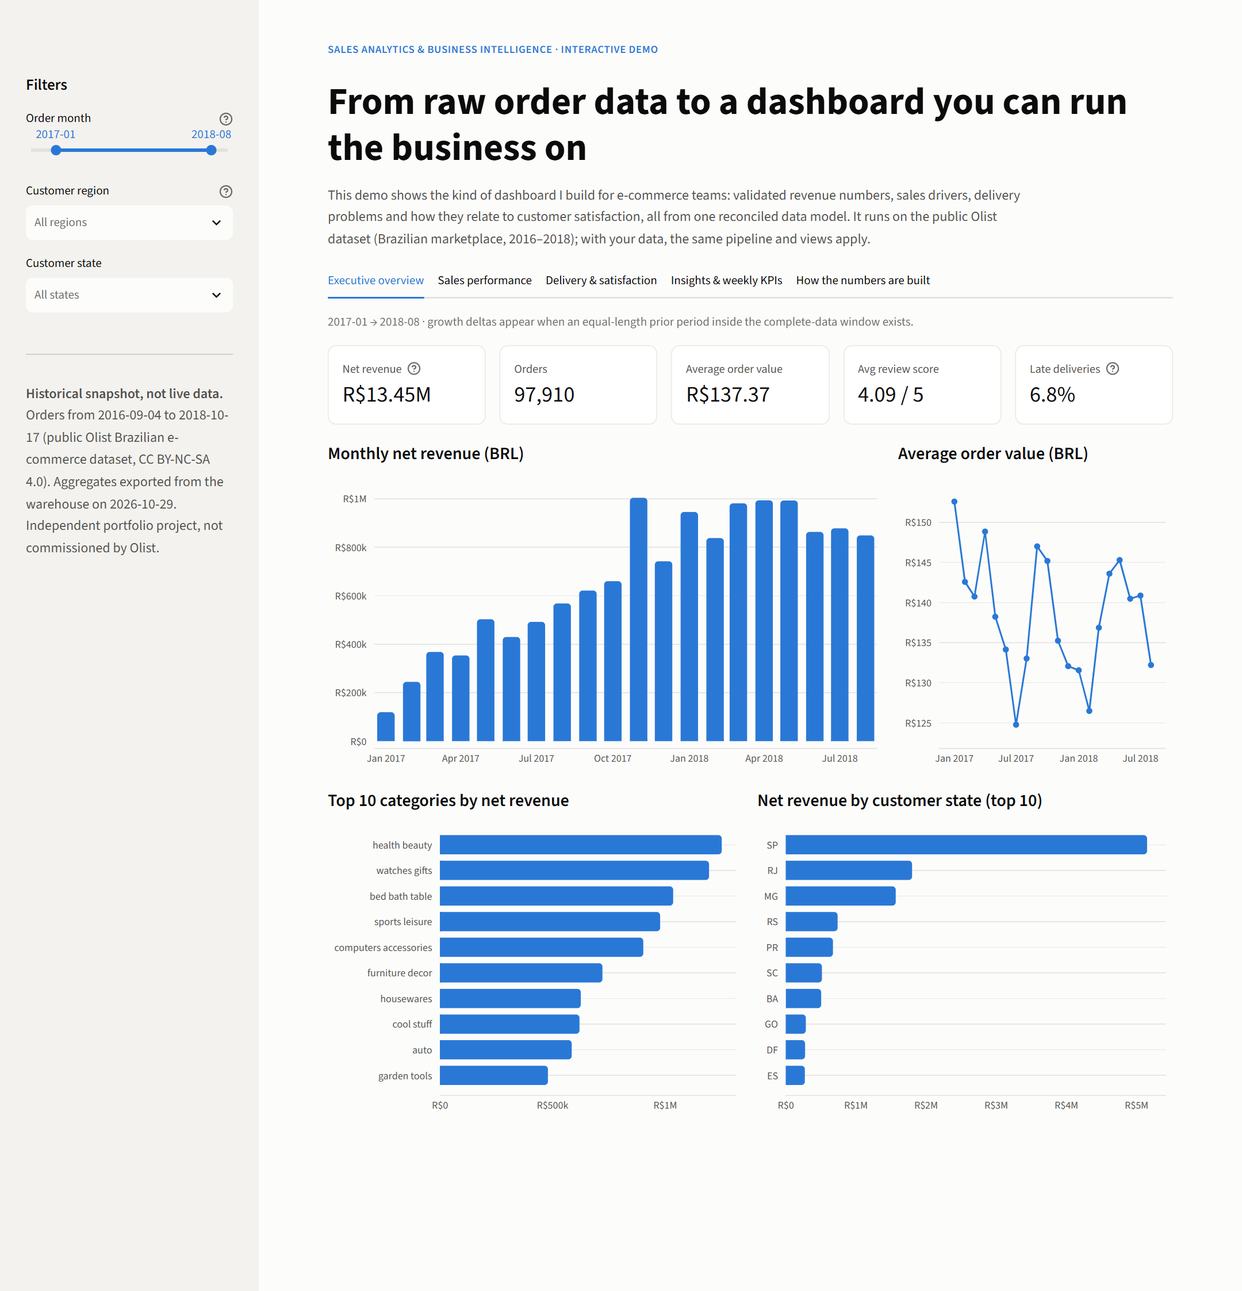
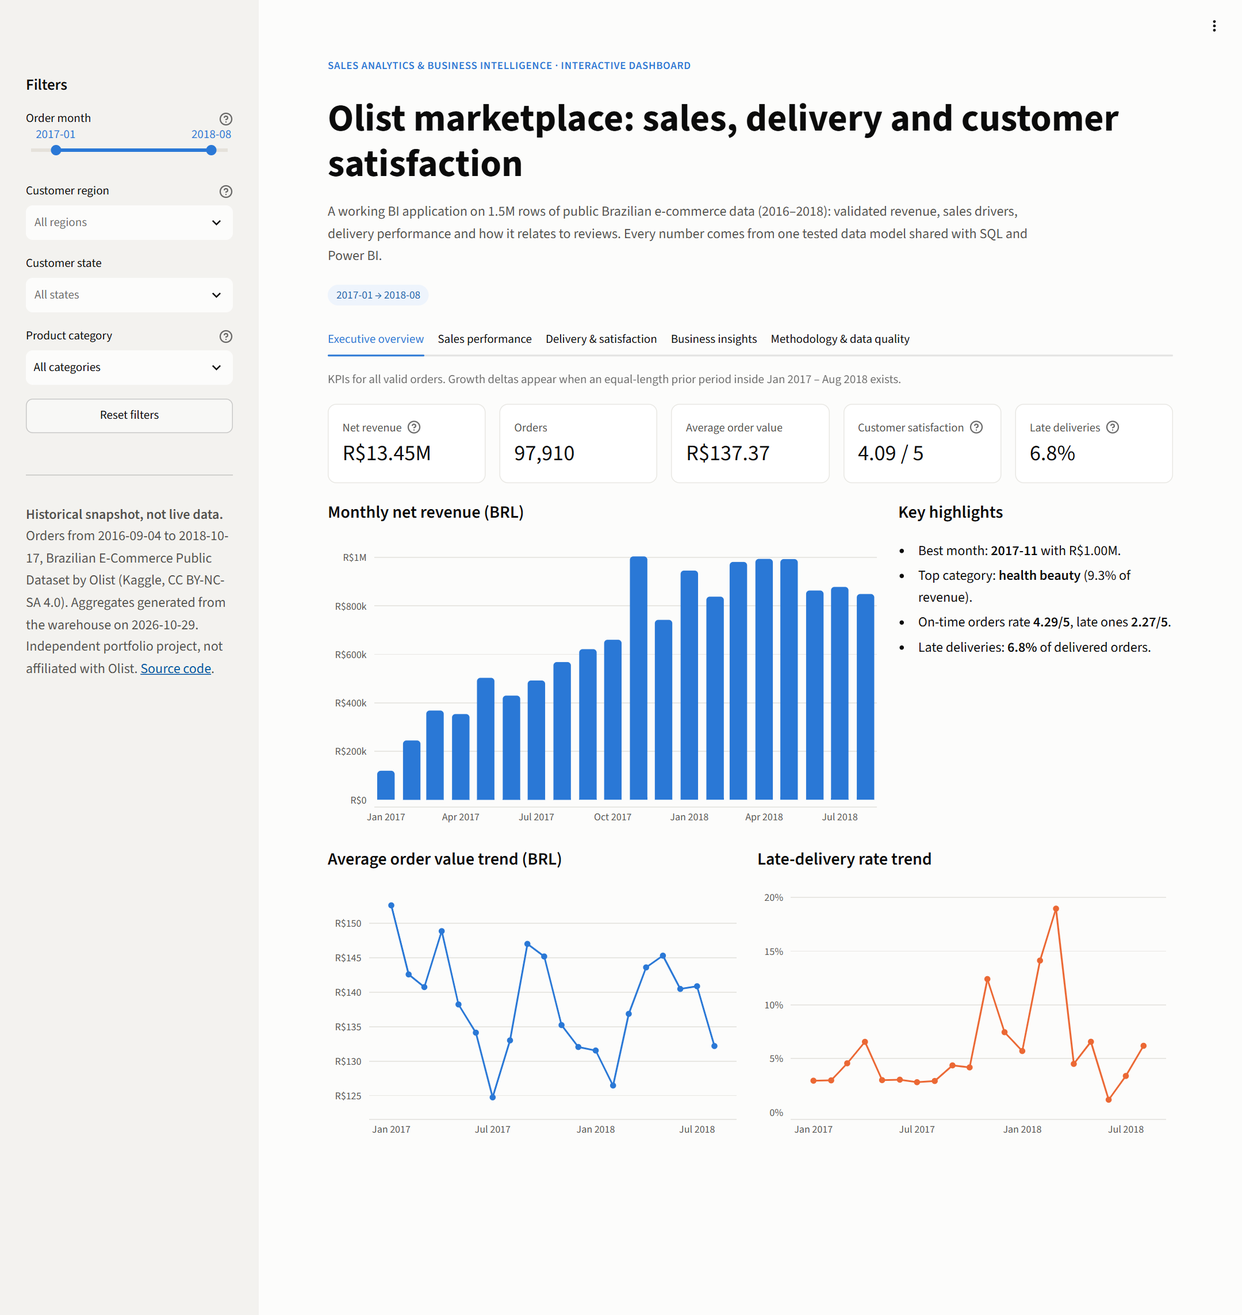
docs: live app URL, production architecture and operations guide
- README opens with the public URL and describes the five app sections
- docs/DEPLOYMENT.md: hosting decision, provider limits, update procedure,
  monitoring, troubleshooting, security and license
- screenshots regenerated from the new app; live URL in case study,
  career and Upwork materials

diff --git a/scripts/capture_demo_screenshots.py b/scripts/capture_demo_screenshots.py
@@ -11,14 +11,14 @@ from pathlib import Path
 
 from playwright.sync_api import sync_playwright
 
-URL = sys.argv[1] if len(sys.argv) > 1 else "http://localhost:8501"
+URL = sys.argv[1] if len(sys.argv) > 1 else "http://localhost:8501"  # public app: https://<app>.streamlit.app/~/+/
 OUT_DIR = Path(__file__).resolve().parent.parent / "images" / "demo"
 TABS = {
     "Executive overview": "01_executive_overview.png",
     "Sales performance": "02_sales_performance.png",
     "Delivery & satisfaction": "03_delivery_satisfaction.png",
-    "Insights & weekly KPIs": "04_insights_weekly_kpis.png",
-    "How the numbers are built": "05_methodology.png",
+    "Business insights": "04_business_insights.png",
+    "Methodology & data quality": "05_methodology_data_quality.png",
 }
 
 
@@ -28,7 +28,7 @@ def main() -> None:
         browser = p.chromium.launch(channel="msedge")
         page = browser.new_page(viewport={"width": 1440, "height": 900}, device_scale_factor=1.5)
         page.goto(URL)
-        page.get_by_text("From raw order data").wait_for(timeout=60_000)
+        page.get_by_text("Olist marketplace").first.wait_for(timeout=180_000)
         page.wait_for_timeout(3000)
         for tab, filename in TABS.items():
             page.get_by_role("tab", name=tab).click()

diff --git a/README.md b/README.md
@@ -1,18 +1,32 @@
 # Olist E-Commerce Analytics & BI
 
-**From 1.5 million raw marketplace rows to reconciled KPIs, a Power BI executive dashboard and an interactive web demo — with every number tested.**
+### ▶ Live app: **[olist-sales-analytics.streamlit.app](https://olist-sales-analytics.streamlit.app)** — opens in any browser, nothing to install
+
+**From 1.5 million raw marketplace rows to reconciled KPIs, a public BI web app and a Power BI executive dashboard — with every number tested.**
 
 *Independent portfolio project on the public [Olist Brazilian e-commerce dataset](https://www.kaggle.com/datasets/olistbr/brazilian-ecommerce) (99,441 orders, 2016–2018). Not commissioned by, affiliated with, or used by Olist; no figure below is a business result I delivered to a client.*
 
-**Demo:** `streamlit run demo/app.py` (no database needed) · public deployment steps in [docs/DEPLOYMENT.md](docs/DEPLOYMENT.md)
-
-![Web demo — executive overview](images/demo/01_executive_overview.png)
+[![Live app — executive overview](images/demo/01_executive_overview.png)](https://olist-sales-analytics.streamlit.app)
 
 | Net revenue analysed | Valid orders | Avg order value | Late deliveries | Review: on-time vs late | Data checks | Tests |
 |---:|---:|---:|---:|---:|---:|---:|
-| R$ 13.49M | 98,207 | R$ 137.41 | 6.77% | 4.29 vs 2.27 | 44 (0 failing) | 57 passing |
+| R$ 13.49M | 98,207 | R$ 137.41 | 6.77% | 4.29 vs 2.27 | 44 (0 failing) | 64 passing + 4 E2E on the live URL |
 
-KPIs are identical in PostgreSQL, Power BI and the web demo — see the [reconciliation matrix](docs/KPI_RECONCILIATION.md).
+KPIs are identical in PostgreSQL, Power BI and the web app — see the [reconciliation matrix](docs/KPI_RECONCILIATION.md).
+
+## The app
+
+A five-section BI application on the historical Olist data (orders Sep 2016 – Oct 2018; snapshot date shown in the app):
+
+| Section | What it answers |
+|---|---|
+| **Executive overview** | Net revenue, orders, AOV, customer satisfaction, late-delivery rate; deltas vs the previous period; monthly trends; key highlights |
+| **Sales performance** | Month-over-month growth, revenue by state, category ranking and share, category movers (last 3 months vs the 3 before), seller concentration |
+| **Delivery & satisfaction** | Delivery time, late rate, distribution of delays, review score by days late, late rate by state, sellers to review, seller profile |
+| **Business insights** | Findings written as evidence → hypothesis → recommendation → KPI to track, recalculated for the current filters; weekly KPI scorecard |
+| **Methodology & data quality** | Source, period, architecture, grain, KPI definitions, live results of the 44 data-quality checks, SQL reconciliation, limitations |
+
+Filters (period, customer region, state, product category) work together and every KPI, chart and table follows them; empty selections show a message instead of an error. The category filter is single-select by design: combining categories would count multi-category orders twice. Hosting, monitoring and the update procedure: [docs/DEPLOYMENT.md](docs/DEPLOYMENT.md).
 
 ---
 
@@ -36,9 +50,10 @@ flowchart LR
 - **PostgreSQL warehouse** in four layers with PK/FK/CHECK constraints, rebuilt by a **Python pipeline** in one transaction (~30 s, idempotent).
 - **Star schema** with facts at order, item and payment grain, so revenue is never multiplied by joins.
 - **Data quality gate:** 44 checks — keys, nulls, dates, money, and revenue reconciliation across grains and views ([report](reports/data_quality_report.md)).
-- **57 automated tests**, including a hand-computed fixture warehouse and demo-vs-SQL reconciliation under date, region, state, category and seller filters; GitHub Actions builds the full warehouse twice and runs them.
+- **64 automated tests**, including a hand-computed fixture warehouse and app-vs-SQL reconciliation under date, region, state, category and seller filters; GitHub Actions builds the full warehouse twice and runs them.
+- **Public deployment** on Streamlit Community Cloud from `main`, with Playwright end-to-end tests run against the live URL after every deploy and weekly.
 - **Power BI** six-page dashboard on the star schema with a documented [DAX library](powerbi/dax_measures.md).
-- **Streamlit demo** for viewers without Power BI: filters, insights with caveats, a weekly KPI scorecard and an in-app reconciliation table.
+- **Streamlit web app**, publicly deployed: filters, insights with caveats, a weekly KPI scorecard, data-quality results and an in-app reconciliation table.
 
 ### Star schema
 
@@ -85,7 +100,7 @@ Each recommendation is written as *finding → evidence → interpretation → h
 
 ## Dashboards
 
-**Web demo** (Streamlit)
+**Web app** (Streamlit) — [live](https://olist-sales-analytics.streamlit.app)
 
 | Sales performance | Delivery & satisfaction |
 |---|---|
@@ -101,7 +116,7 @@ More pages: [sales](images/Sales_performance.png) · [customers](images/Customer
 
 ## Tech stack
 
-PostgreSQL · SQL (CTEs, window functions, constraints) · Python (psycopg, pandas, pytest) · Power BI / DAX · Streamlit / Plotly · Docker Compose · GitHub Actions
+PostgreSQL · SQL (CTEs, window functions, constraints) · Python (psycopg, pandas, pytest, Playwright) · Power BI / DAX · Streamlit / Plotly · Streamlit Community Cloud · Docker Compose · GitHub Actions
 
 ## Repository layout
 
@@ -150,7 +165,8 @@ OLIST_RECONCILE_DATABASE_URL=postgresql://postgres:postgres@localhost:5432/olist
 ```
 
 - Integration tests need a **separate** database whose name contains `test` (they drop and rebuild schemas).
-- Current results: 44 checks (40 pass, 4 documented source-data warnings, 0 failures); 57 tests passing locally (PostgreSQL 18) and in Docker (PostgreSQL 16).
+- Current results: 44 checks (40 pass, 4 documented source-data warnings, 0 failures); 64 tests passing locally (PostgreSQL 18), in Docker and in GitHub Actions (PostgreSQL 16).
+- End-to-end tests against the live app: `APP_URL=https://olist-sales-analytics.streamlit.app pytest tests/e2e` (Playwright; also run by `public-app-smoke.yml`).
 - Independent review and resolution of every issue found: [docs/TECHNICAL_AUDIT.md](docs/TECHNICAL_AUDIT.md).
 
 ## Limitations
@@ -159,7 +175,7 @@ OLIST_RECONCILE_DATABASE_URL=postgresql://postgres:postgres@localhost:5432/olist
 - Delay-vs-review results are observational; recommendations call for controlled comparisons before investment.
 - Sep–Dec 2016 and Sep–Oct 2018 are partial months; trend views default to Jan 2017 – Aug 2018.
 - Customer geography uses each person's latest order address.
-- The demo is a static snapshot of exported aggregates, not live data.
+- The web app shows a static snapshot of exported aggregates, not live data; the free host puts it to sleep after inactivity (one click wakes it).
 
 ## Data license
 

diff --git a/docs/DEPLOYMENT.md b/docs/DEPLOYMENT.md
@@ -1,33 +1,88 @@
-# Deploying the web demo (Streamlit Community Cloud)
+# Deployment and operations
 
-The demo reads only `demo/data/*.parquet` (< 1 MB) and needs no database or secrets,
-so it runs on Streamlit Community Cloud's free tier.
+**Live app:** https://olist-sales-analytics.streamlit.app (public, HTTPS, no sign-in required)
 
-## Steps (one time, ~5 minutes)
+## Architecture
 
-1. Sign in at <https://share.streamlit.io> with the GitHub account that owns the repository.
-2. **Create app → Deploy a public app from GitHub**.
-3. Repository `AC020907/olist-ecommerce-analytics-bi`, branch `main`, main file path `demo/app.py`.
-4. **Advanced settings → Python version 3.13**. Dependencies are read from
-   `demo/requirements.txt` (the file next to the app takes precedence over the root one).
-5. Optional: choose a custom subdomain, e.g. `olist-bi-demo`.
-6. Deploy, then open the URL and check: the five tabs render, the month slider and region
-   filter update the KPIs, and "How the numbers are built" shows identical SQL and demo values.
-7. Add the URL to the top of `README.md` (the `Demo:` line).
-
-Theme settings are in `.streamlit/config.toml` at the repository root.
-
-## Updating the data
-
-```bash
-python -m olist_bi build
-python -m olist_bi export        # rewrites demo/data/*.parquet and export_metadata.json
-pytest tests/test_demo_data.py tests/test_kpi_reconciliation.py
+```mermaid
+flowchart LR
+    R[data/raw CSVs] -->|python -m olist_bi build| W[(PostgreSQL warehouse<br/>CI or local)]
+    W -->|44 checks + reconciliation tests| W
+    W -->|python -m olist_bi export| P[demo/data/*.parquet<br/>< 1 MB, committed]
+    P -->|git push to main| G[GitHub]
+    G -->|auto redeploy| S[Streamlit Community Cloud<br/>demo/app.py]
+    S --> U[Visitors, HTTPS]
+    G -->|public-app-smoke.yml| E[Playwright E2E<br/>against the public URL]
 ```
 
-Commit and push `demo/data/`; Streamlit Cloud redeploys automatically on push.
+| Decision | Choice | Why |
+|---|---|---|
+| Hosting | Streamlit Community Cloud | Free, HTTPS, deploys from GitHub on every push to `main`, one-click reboot and a built-in log viewer. The app is already Streamlit, so no rewrite. |
+| Data at runtime | Committed parquet aggregates | The dataset is historical and small once aggregated; a cloud database would add cost, credentials and a failure point with no benefit. |
+| Secrets | None | The app reads only public, aggregated files. No credentials exist in the deployment. |
+| Alternatives considered | Render / Railway (free tiers sleep or are credit-limited, need a container), Cloud Run (billing account, container build) | More moving parts for the same result. |
 
-## Licensing note
+Deployment settings (share.streamlit.io → app → Settings): repository
+`AC020907/olist-ecommerce-analytics-bi`, branch `main`, main file `demo/app.py`,
+Python 3.13, dependencies from `demo/requirements.txt` (the requirements file next to
+the app takes precedence over the root one), theme from `.streamlit/config.toml`.
 
-The aggregates derive from the Olist dataset (CC BY-NC-SA 4.0). The public demo is a
-non-commercial portfolio piece; do not put it behind a paywall or use it as a paid product.
+## Provider limits (what "deployed" does and does not mean)
+
+- **Sleeping:** Community Cloud puts apps to sleep after a period without visitors. The
+  first visitor then sees "This app has gone to sleep" and wakes it with one click
+  (~30–60 s). Persistent deployment, not a 24/7 availability guarantee.
+- **Resources:** limited, shared CPU and memory; this app needs little (aggregates < 1 MB,
+  loaded once and cached with `st.cache_data`).
+- **No SLA**, public apps only on the free tier, and usage is subject to Streamlit's
+  fair-use terms.
+
+## Updating the data or the app
+
+Every change goes through the same gates, either locally or in GitHub Actions:
+
+1. **Ingest + transform:** `python -m olist_bi build`
+2. **Validate:** `python -m olist_bi check` (fails on any error-level check)
+3. **Export:** `python -m olist_bi export` (parquet, KPI reference, quality summary, export metadata)
+4. **Reconcile + test:** `pytest` (64 tests, including demo-vs-SQL KPI reconciliation)
+5. **Publish:** merge to `main` → Streamlit Cloud redeploys automatically
+6. **Verify:** `public-app-smoke.yml` runs the Playwright tests against the public URL
+
+Automated path: **Actions → refresh-demo-data → Run workflow** rebuilds, validates,
+exports, tests and opens a pull request with the new snapshot; merging it publishes.
+(Enable *Settings → Actions → General → Allow GitHub Actions to create and approve pull
+requests* once.)
+
+## Monitoring
+
+- **`public-app-smoke`** (GitHub Actions): after every push to `main`, weekly (Monday
+  12:00 UTC) and on demand. It wakes the app if asleep, checks the KPIs against the
+  committed data, opens every section, applies a filter, checks the mobile layout and
+  fails if a Python exception is on screen. GitHub e-mails the repository owner on failure.
+- **App logs:** share.streamlit.io → app → *Manage app* → logs. The app logs data-load
+  time and the filters applied (no visitor-identifying data), and failures to load data.
+- **CI** (`ci.yml`): every push builds the warehouse twice and runs all checks and tests.
+
+## Troubleshooting
+
+| Symptom | Cause | Fix |
+|---|---|---|
+| "This app has gone to sleep" | Inactivity | Click the wake button; it restarts in under a minute. |
+| "The dashboard data could not be loaded" | Missing/corrupt parquet in `demo/data/` | Re-run `python -m olist_bi export`, run tests, push. |
+| Deploy fails on install | Dependency incompatible with the selected Python | Check *Manage app* logs; keep `demo/requirements.txt` pins aligned with CI (Python 3.13). |
+| Numbers differ from SQL | Stale export | `refresh-demo-data` workflow, or rebuild + export locally; reconciliation tests will flag it. |
+| Smoke test fails right after a push | Redeploy still running | Re-run the workflow after a few minutes. |
+
+## Security and privacy
+
+- No secrets, tokens or database connections in the app or repository (`.env` is git-ignored).
+- The app serves only aggregated, anonymized public data; no personal data, no visitor
+  tracking beyond Streamlit's own platform analytics, no authentication needed.
+- Inputs are limited to widget options generated from the data; the period is validated
+  before use.
+
+## License
+
+The data is the Brazilian E-Commerce Public Dataset by Olist (Kaggle, CC BY-NC-SA 4.0).
+The app shows attribution and the license in its sidebar and methodology tab, is a
+non-commercial portfolio project, and is not affiliated with Olist. Code is MIT.

diff --git a/docs/CAREER_MATERIALS.md b/docs/CAREER_MATERIALS.md
@@ -18,6 +18,8 @@ All figures are verified against the database (see `docs/TECHNICAL_AUDIT.md`, se
 >
 > What the data showed: late orders average 2.27/5 in reviews vs 4.29/5 on time, late deliveries jumped from ~3% to 12–19% in peak months, and 41 high-volume sellers combine poor delivery with low ratings.
 >
+> Live app: https://olist-sales-analytics.streamlit.app
+>
 > Python · SQL · PostgreSQL · Power BI/DAX · pytest · Streamlit
 
 **Post (optional)**
@@ -27,8 +29,8 @@ All figures are verified against the database (see `docs/TECHNICAL_AUDIT.md`, se
 ## CV bullets
 
 - Built an end-to-end BI pipeline (Python, PostgreSQL) that loads and models 1.55M rows of public Olist e-commerce data into a 5-dimension, 3-fact star schema, rebuilding idempotently in ~30 seconds — 98,207 valid orders and R$13.49M net revenue analysed across 96,096 unique customers.
-- Designed 44 automated data-quality and reconciliation checks plus a 57-test pytest suite; revenue, freight and payments reconcile to the cent across order, item and payment grains, and a SQL-vs-DAX audit found and fixed two Power BI measure groups that diverged from the documented KPIs.
-- Delivered a six-page Power BI dashboard and a Streamlit web demo; analysis showed late orders average 2.27/5 vs 4.29/5 on time and identified 41 high-volume sellers combining >10% late deliveries with sub-3.8 ratings.
+- Designed 44 automated data-quality and reconciliation checks plus a 64-test pytest suite; revenue, freight and payments reconcile to the cent across order, item and payment grains, and a SQL-vs-DAX audit found and fixed two Power BI measure groups that diverged from the documented KPIs.
+- Delivered a six-page Power BI dashboard and a publicly deployed Streamlit BI app (Streamlit Community Cloud, Playwright E2E tests on the live URL); analysis showed late orders average 2.27/5 vs 4.29/5 on time and identified 41 high-volume sellers combining >10% late deliveries with sub-3.8 ratings.
 
 *Note: the previous CV wording "98,207 valid orders from 96,096 customers" mixes two populations — 96,096 is all unique customers; 94,990 have at least one valid order. Use the wording above.*
 
@@ -45,7 +47,7 @@ version: `commercial/PITCH_AND_DEMO_SCRIPTS.md`.
 | **Double counting** | One order can have several items and several payments. Joining items × payments row-to-row multiplies revenue. `fact_orders` pre-aggregates items, freight, payments and reviews per order; category/seller analysis uses the item fact; payment analysis uses the payment fact. A check proves fact totals equal the raw files to the cent. |
 | **SQL** | CTEs, window functions (`ROW_NUMBER` for the latest address, `LAG` for MoM growth, `PERCENTILE_CONT`), `FILTER` clauses for population-specific measures, `DISTINCT ON` for the mode city/state per ZIP. |
 | **Data quality** | 44 checks with error/warn severity: keys, referential integrity, nulls, dates, money, reconciliation across grains and views. Known source issues (268 ZIPs missing from geolocation, 23 impossible delivery dates) are warnings, kept visible and never silently dropped. |
-| **Automation & tests** | 57 pytest tests: a hand-built fixture warehouse with known answers (2-item/2-payment order, cancellations, same-day delivery, impossible dates, repeat customer who moved), idempotency, demo-vs-SQL reconciliation under date/region/state/category/seller filters, and headless Streamlit tests. GitHub Actions builds the full warehouse twice and runs everything. |
+| **Automation & tests** | 64 pytest tests plus Playwright E2E tests against the live app: a hand-built fixture warehouse with known answers (2-item/2-payment order, cancellations, same-day delivery, impossible dates, repeat customer who moved), idempotency, demo-vs-SQL reconciliation under date/region/state/category/seller filters, and headless Streamlit tests. GitHub Actions builds the full warehouse twice and runs everything. |
 | **Dashboard** | Six Power BI pages on the star schema with a documented DAX library; a Streamlit demo for people without Power BI. Both reproduce the SQL KPIs (matrix in `docs/KPI_RECONCILIATION.md`). |
 | **Results** | R$13.49M net revenue, 98,207 valid orders, AOV R$137.41; 6.77% of deliveries late; on-time orders average 4.29/5 vs 2.27/5 late; Jan–Aug 2018 revenue +138% YoY. These are findings on public data, not business outcomes I delivered. |
 | **Design decisions & trade-offs** | *Late = calendar date* because the promised date has no time; the timestamp rule had flagged 1,292 on-time orders. *Pre-aggregated demo data* instead of a live DB: free hosting and exact reconciliation, at the cost of a static snapshot. *Latest address* for customer geography: simple and stable, slightly wrong for 39 customers who moved state. *Full rebuild* instead of incremental loads: right for a static 1.5M-row dataset; a growing client dataset would need incremental models. *Measures, not calculated columns*, for anything filter-dependent in DAX. |

diff --git a/docs/TECHNICAL_AUDIT.md b/docs/TECHNICAL_AUDIT.md
@@ -104,7 +104,7 @@ connection detail (`localhost`, user `postgres`) is generic documentation.
 | A-01 | On-time review measure counted blank `is_late` as on-time | DAX now uses strict `==`; saved in the `.pbix` | DAX 4.2947 = SQL on the same data; `powerbi/measure_fixes.dax` | Fixed |
 | A-02 | Freight / item / seller measures included canceled orders | Valid-order filters added to 6 measures (+ `Avg Items per Order`, A-16) | DAX = SQL to the cent (`KPI_RECONCILIATION.md` §2) | Fixed |
 | A-03 | Pipeline not re-runnable | `sql/00_reset` + transactional Python build | CI builds twice; `test_rebuild_is_idempotent` | Fixed |
-| A-04 | No tests / quality gate | 44 checks, 57 tests, CI | `reports/data_quality_report.md`, CI runs | Fixed |
+| A-04 | No tests / quality gate | 44 checks, 64 tests, E2E on the live app, CI | `reports/data_quality_report.md`, CI runs | Fixed |
 | A-05 | CV mixed customer populations | Wording corrected everywhere | `docs/CAREER_MATERIALS.md` | Fixed |
 | A-06 | Repeat rate population undocumented | Documented (3.12% all statuses / 3.04% valid only) | `KPI_RECONCILIATION.md` §1 | Documented |
 | A-07 | Late rule flagged same-day deliveries as late | `is_late` compares calendar dates (all promised dates are at 00:00) | checks `late_flag_uses_calendar_dates`, `promised_date_is_calendar_date`; test `test_delivery_on_promised_day_is_on_time` | **Fixed — late rate 8.11% → 6.77%, late review 2.57 → 2.27** |

diff --git a/commercial/PORTFOLIO_DESCRIPTION.md b/commercial/PORTFOLIO_DESCRIPTION.md
@@ -6,7 +6,7 @@
 
 **Skills to tag:** Microsoft Power BI · SQL · PostgreSQL · Python · Data Modeling · ETL · Dashboard · Data Visualization · DAX · Business Intelligence
 
-**Images (in this order):** `images/demo/01_executive_overview.png`, `images/demo/03_delivery_satisfaction.png`, `images/Executive_overview.png`, `images/demo/05_methodology.png`.
+**Images (in this order):** `images/demo/01_executive_overview.png`, `images/demo/03_delivery_satisfaction.png`, `images/Executive_overview.png`, `images/demo/05_methodology_data_quality.png`.
 
 ---
 
@@ -32,4 +32,5 @@ End-to-end sales analytics on a public e-commerce dataset (99k orders, 1.5M rows
 
 **What it means for your business.** The same pipeline works with your exports: one trusted revenue number, a dashboard that refreshes instead of being rebuilt, and early warnings on delivery and customer satisfaction.
 
+Live app: https://olist-sales-analytics.streamlit.app
 Code and documentation: https://github.com/AC020907/olist-ecommerce-analytics-bi

diff --git a/docs/CASE_STUDY.md b/docs/CASE_STUDY.md
@@ -3,7 +3,7 @@
 *Independent portfolio project on the public Olist dataset (Brazil, 2016–2018). Olist did not commission or review this work; no results below were delivered to or measured at a real company.*
 
 **Stack:** Python · PostgreSQL · SQL · Power BI / DAX · Streamlit · pytest · Docker Compose · GitHub Actions
-**Code:** [github.com/AC020907/olist-ecommerce-analytics-bi](https://github.com/AC020907/olist-ecommerce-analytics-bi)
+**Live app:** [olist-sales-analytics.streamlit.app](https://olist-sales-analytics.streamlit.app) · **Code:** [github.com/AC020907/olist-ecommerce-analytics-bi](https://github.com/AC020907/olist-ecommerce-analytics-bi)
 
 ---
 

diff --git a/commercial/UPWORK_SERVICE.md b/commercial/UPWORK_SERVICE.md
@@ -12,6 +12,7 @@ I build sales dashboards on top of a clean data model, not on top of raw exports
 
 You can see the full approach in my public case study — a 1.5-million-row e-commerce dataset turned into a PostgreSQL star schema, 44 automated data-quality checks, a six-page Power BI dashboard and a browser-based demo:
 
+- Live app: https://olist-sales-analytics.streamlit.app
 - Code and documentation: https://github.com/AC020907/olist-ecommerce-analytics-bi
 - Case study: docs/CASE_STUDY.md in that repository
 
